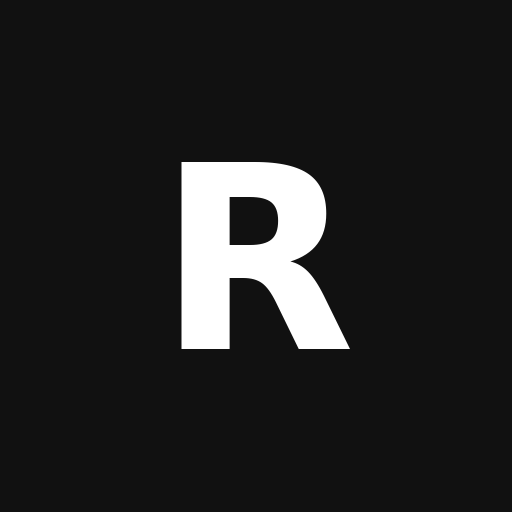
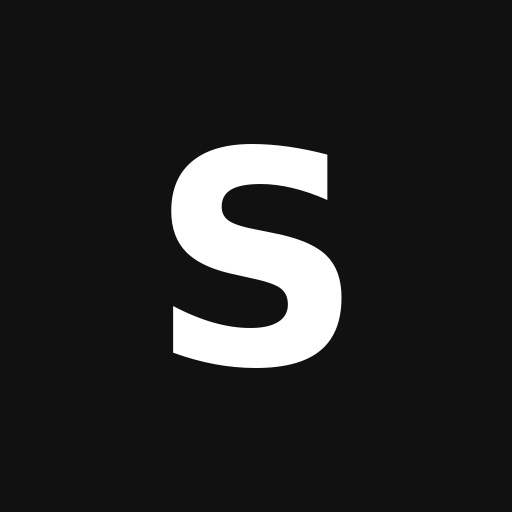
Rename app from Rassemble to SOS DZ
Renames the displayed brand name throughout the project, at the
user's request, to match the repo's own name (sos-dz):

- PWA manifest name/short_name, browser tab title, app icon monogram
  (regenerated 192/512px PNGs, same black/white style)
- common.brand in all three locale files (fr/en/ar) -- kept identical
  across languages rather than translated, same as how the previous
  name was already handled for fr/en (only ar.json had carried a
  translated brand string, now made consistent)
- READMEs, DEPLOYMENT.md (including the systemd unit names and /opt
  paths in the deploy instructions, harmless to rename since no real
  deployment has been done yet), settings.py docstring/section header
- moderation-sidecar's package name/description, its startup log
  line, and its header comment

Left untouched: internal-only identifiers invisible to end users
(localStorage/IndexedDB key names like rassemble_language,
rassemble_exception_handler in exceptions.py) -- renaming those risks
missing a paired get/set reference for no user-visible benefit. Also
left the historical docs/audits/*.md files as-is since they're dated
point-in-time records of what was actually reviewed under the old
name, not living documentation.

Changed region(s): [[0.3125, 0.2812, 0.6875, 0.7188]]

diff --git a/backend/templates/index.html b/backend/templates/index.html
@@ -4,7 +4,7 @@
 <head>
   <meta charset="utf-8">
   <meta name="viewport" content="width=device-width, initial-scale=1">
-  <title>Rassemble</title>
+  <title>SOS DZ</title>
   <link rel="stylesheet" href="{% static 'vendor/leaflet/leaflet.css' %}" />
   <link rel="stylesheet" href="{% static 'css/app.css' %}">
 </head>
@@ -15,7 +15,7 @@
   </div>
 
   <header class="topbar">
-    <a href="#/" class="brand">Rassemble</a>
+    <a href="#/" class="brand">SOS DZ</a>
     <nav>
       <a href="#/needs">Needs</a>
       <a href="#/collection-points">Collection points</a>
@@ -27,7 +27,7 @@
   <main>
     <!-- HOME -->
     <section x-show="route === 'home'" class="home">
-      <h1>Rassemble</h1>
+      <h1>SOS DZ</h1>
       <p>Disaster relief coordination for Algeria.</p>
       <div class="home-actions">
         <a href="#/create" class="btn btn-primary btn-huge">I need help</a>

diff --git a/moderation-sidecar/server.js b/moderation-sidecar/server.js
@@ -1,5 +1,5 @@
 /**
- * Rassemble moderation sidecar (Wave 3).
+ * SOS DZ moderation sidecar (Wave 3).
  *
  * Small local HTTP service wrapping NSFWJS (open-source, MIT-licensed,
  * free) so the Django backend can moderate photos before they are
@@ -75,7 +75,7 @@ app.post("/classify", upload.single("image"), async (req, res) => {
 });
 
 app.listen(PORT, HOST, () => {
-  console.log(`Rassemble moderation sidecar listening on http://${HOST}:${PORT}`);
+  console.log(`SOS DZ moderation sidecar listening on http://${HOST}:${PORT}`);
   getModel().then(
     () => console.log("NSFWJS model loaded."),
     (e) => console.error("Failed to preload NSFWJS model:", e)

diff --git a/frontend/vite.config.js b/frontend/vite.config.js
@@ -10,8 +10,8 @@ export default defineConfig({
       registerType: 'autoUpdate',
       includeAssets: ['favicon.svg'],
       manifest: {
-        name: 'Rassemble',
-        short_name: 'Rassemble',
+        name: 'SOS DZ',
+        short_name: 'SOS DZ',
         description: 'Disaster relief coordination for Algeria',
         theme_color: '#111111',
         background_color: '#fafafa',

diff --git a/frontend/index.html b/frontend/index.html
@@ -4,7 +4,7 @@
     <meta charset="UTF-8" />
     <link rel="icon" type="image/svg+xml" href="/favicon.svg" />
     <meta name="viewport" content="width=device-width, initial-scale=1.0" />
-    <title>Rassemble</title>
+    <title>SOS DZ</title>
   </head>
   <body>
     <div id="root"></div>

diff --git a/backend/config/settings.py b/backend/config/settings.py
@@ -1,5 +1,5 @@
 """
-Django settings for the Rassemble project.
+Django settings for the SOS DZ project.
 
 Configuration is driven by environment variables (see .env.example at the
 repo root). Nothing here should ever hold a real secret — only placeholders
@@ -186,7 +186,7 @@ REST_FRAMEWORK = {
     "EXCEPTION_HANDLER": "core.exceptions.rassemble_exception_handler",
 }
 
-# --- Rassemble-specific configuration ---------------------------------------
+# --- SOS DZ-specific configuration -------------------------------------------
 
 # Geo bounding box for Algeria (validation of submitted lat/long on Needs
 # and CollectionPoints -- see Wave 3 "geolocation restricted to Algeria").

diff --git a/DEPLOYMENT.md b/DEPLOYMENT.md
@@ -18,9 +18,9 @@ sudo apt install -y python3-venv python3-pip nginx certbot python3-certbot-nginx
 ### 2. Clone and set up the app
 
 ```bash
-sudo mkdir -p /opt/rassemble && sudo chown $USER:$USER /opt/rassemble
-git clone https://github.com/akli-hamraoui/sos-dz.git /opt/rassemble
-cd /opt/rassemble
+sudo mkdir -p /opt/sos-dz && sudo chown $USER:$USER /opt/sos-dz
+git clone https://github.com/akli-hamraoui/sos-dz.git /opt/sos-dz
+cd /opt/sos-dz
 
 python3 -m venv backend-venv
 source backend-venv/bin/activate
@@ -41,21 +41,21 @@ python manage.py createsuperuser   # choose credentials interactively
 
 ### 3. Gunicorn systemd service
 
-`/etc/systemd/system/rassemble-gunicorn.service`:
+`/etc/systemd/system/sos-dz-gunicorn.service`:
 
 ```ini
 [Unit]
-Description=Rassemble Gunicorn daemon
+Description=SOS DZ Gunicorn daemon
 After=network.target
 
 [Service]
 User=www-data
 Group=www-data
-WorkingDirectory=/opt/rassemble/backend
-EnvironmentFile=/opt/rassemble/.env
-ExecStart=/opt/rassemble/backend-venv/bin/gunicorn \
+WorkingDirectory=/opt/sos-dz/backend
+EnvironmentFile=/opt/sos-dz/.env
+ExecStart=/opt/sos-dz/backend-venv/bin/gunicorn \
     --workers 3 \
-    --bind unix:/run/rassemble.sock \
+    --bind unix:/run/sos-dz.sock \
     config.wsgi:application
 Restart=on-failure
 
@@ -65,13 +65,13 @@ WantedBy=multi-user.target
 
 ```bash
 sudo systemctl daemon-reload
-sudo systemctl enable --now rassemble-gunicorn
-sudo systemctl status rassemble-gunicorn
+sudo systemctl enable --now sos-dz-gunicorn
+sudo systemctl status sos-dz-gunicorn
 ```
 
 ### 4. Nginx reverse proxy
 
-`/etc/nginx/sites-available/rassemble`:
+`/etc/nginx/sites-available/sos-dz`:
 
 ```nginx
 server {
@@ -79,14 +79,14 @@ server {
     server_name your-domain.example;
 
     location /static/ {
-        alias /opt/rassemble/staticfiles/;
+        alias /opt/sos-dz/staticfiles/;
     }
     location /media/ {
-        alias /opt/rassemble/media/;
+        alias /opt/sos-dz/media/;
     }
 
     location / {
-        proxy_pass http://unix:/run/rassemble.sock;
+        proxy_pass http://unix:/run/sos-dz.sock;
         proxy_set_header Host $host;
         proxy_set_header X-Real-IP $remote_addr;
         proxy_set_header X-Forwarded-For $proxy_add_x_forwarded_for;
@@ -96,7 +96,7 @@ server {
 ```
 
 ```bash
-sudo ln -s /etc/nginx/sites-available/rassemble /etc/nginx/sites-enabled/
+sudo ln -s /etc/nginx/sites-available/sos-dz /etc/nginx/sites-enabled/
 sudo nginx -t && sudo systemctl reload nginx
 ```
 
@@ -111,14 +111,14 @@ Certbot edits the Nginx config in place to add the SSL server block and sets up 
 ### 6. Redeploying on a new push
 
 ```bash
-cd /opt/rassemble
+cd /opt/sos-dz
 git pull
 source backend-venv/bin/activate
 pip install -r backend/requirements.txt
 cd backend
 python manage.py migrate
 python manage.py collectstatic --noinput
-sudo systemctl restart rassemble-gunicorn
+sudo systemctl restart sos-dz-gunicorn
 ```
 
 ### 6b. Cloudflare R2 (media storage, Wave 2)
@@ -130,21 +130,21 @@ Create an R2 bucket in the Cloudflare dashboard, generate an S3-compatible API t
 Small Node.js service (`moderation-sidecar/`) wrapping NSFWJS -- free, open-source, MIT-licensed, self-hosted, no API key or billing account. The classification model ships bundled inside the `nsfwjs` npm package itself, so this needs **no external network access at all** once `npm install` has run (confirmed in development: `nsfw.load()` loads the model entirely from local files).
 
 ```bash
-cd /opt/rassemble/moderation-sidecar
+cd /opt/sos-dz/moderation-sidecar
 npm install --production
 ```
 
-`/etc/systemd/system/rassemble-nsfwjs.service`:
+`/etc/systemd/system/sos-dz-nsfwjs.service`:
 
 ```ini
 [Unit]
-Description=Rassemble NSFWJS moderation sidecar
+Description=SOS DZ NSFWJS moderation sidecar
 After=network.target
 
 [Service]
 User=www-data
 Group=www-data
-WorkingDirectory=/opt/rassemble/moderation-sidecar
+WorkingDirectory=/opt/sos-dz/moderation-sidecar
 Environment=HOST=127.0.0.1
 Environment=PORT=8801
 ExecStart=/usr/bin/node server.js
@@ -156,7 +156,7 @@ WantedBy=multi-user.target
 
 ```bash
 sudo systemctl daemon-reload
-sudo systemctl enable --now rassemble-nsfwjs
+sudo systemctl enable --now sos-dz-nsfwjs
 curl http://127.0.0.1:8801/health   # {"status":"ok","model_loaded":true}
 ```
 

diff --git a/README.md b/README.md
@@ -1,6 +1,6 @@
-# Rassemble
+# SOS DZ
 
-Open-source disaster relief coordination app for Algeria (wildfires, earthquakes, floods, etc.). Rassemble does **not** do disaster detection — it only coordinates humanitarian aid once a crisis has been declared by the relevant authorities.
+Open-source disaster relief coordination app for Algeria (wildfires, earthquakes, floods, etc.). SOS DZ does **not** do disaster detection — it only coordinates humanitarian aid once a crisis has been declared by the relevant authorities.
 
 Built for speed and simplicity in an emergency: creating a need or taking charge of one takes a handful of fields, no account, no SMS verification.
 

diff --git a/frontend/README.md b/frontend/README.md
@@ -1,4 +1,4 @@
-# Rassemble frontend
+# SOS DZ frontend
 
 React + Vite PWA. See the [root README](../README.md#frontend-react--vite-pwa) for setup instructions (requires the Django backend from `../backend` running alongside it).
 
